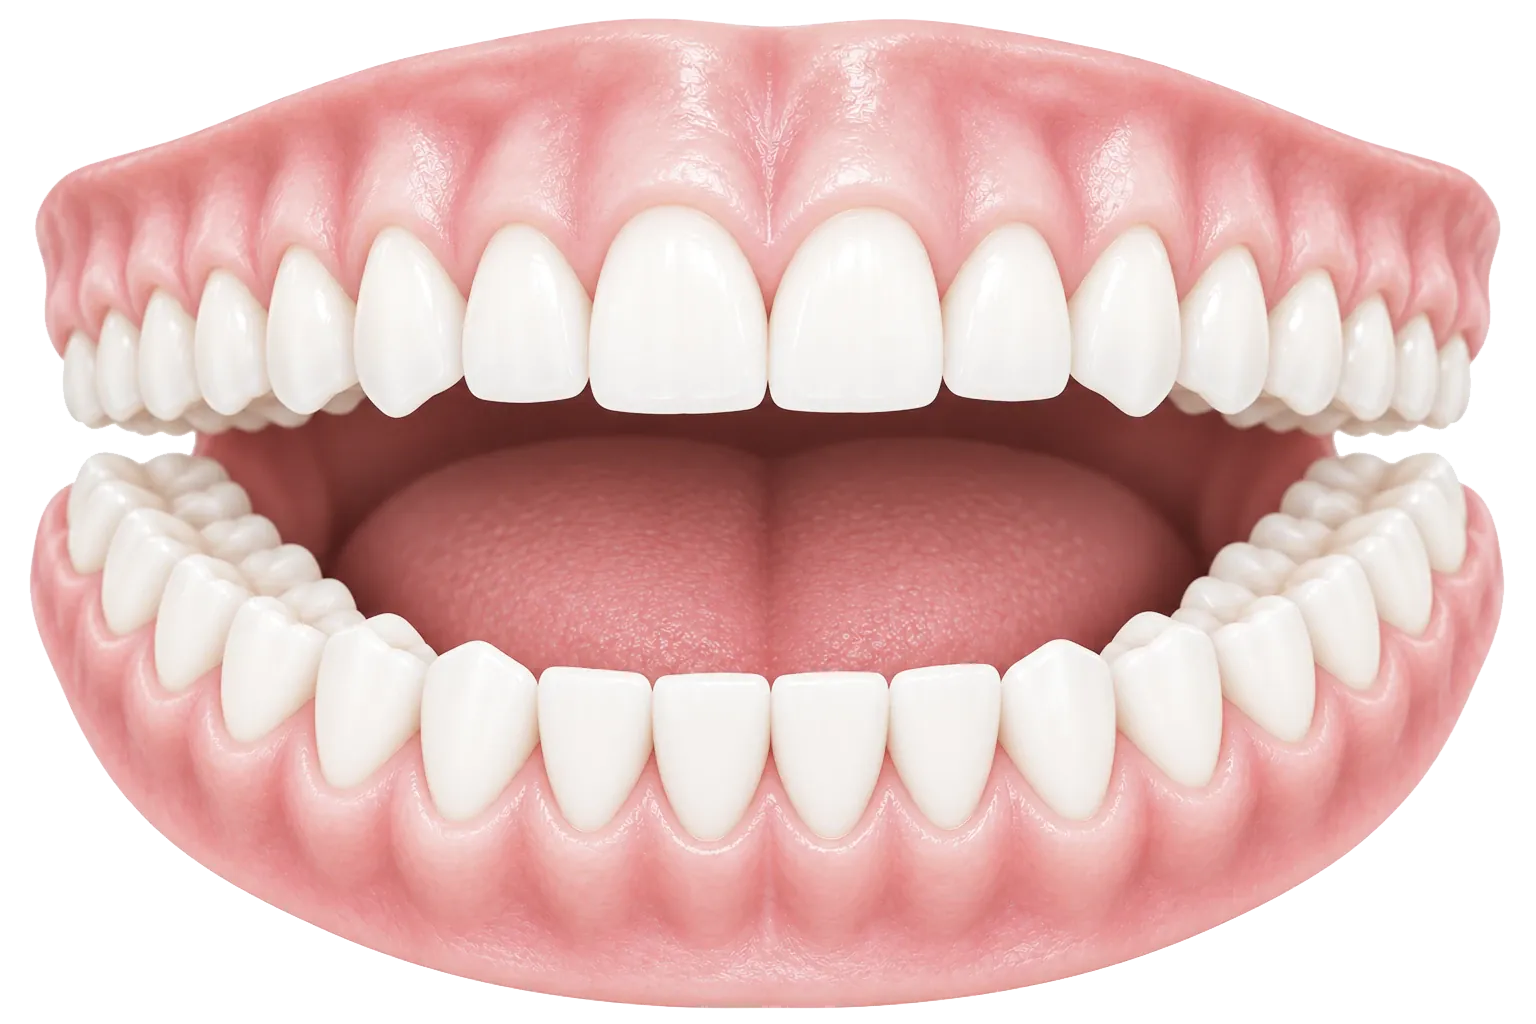
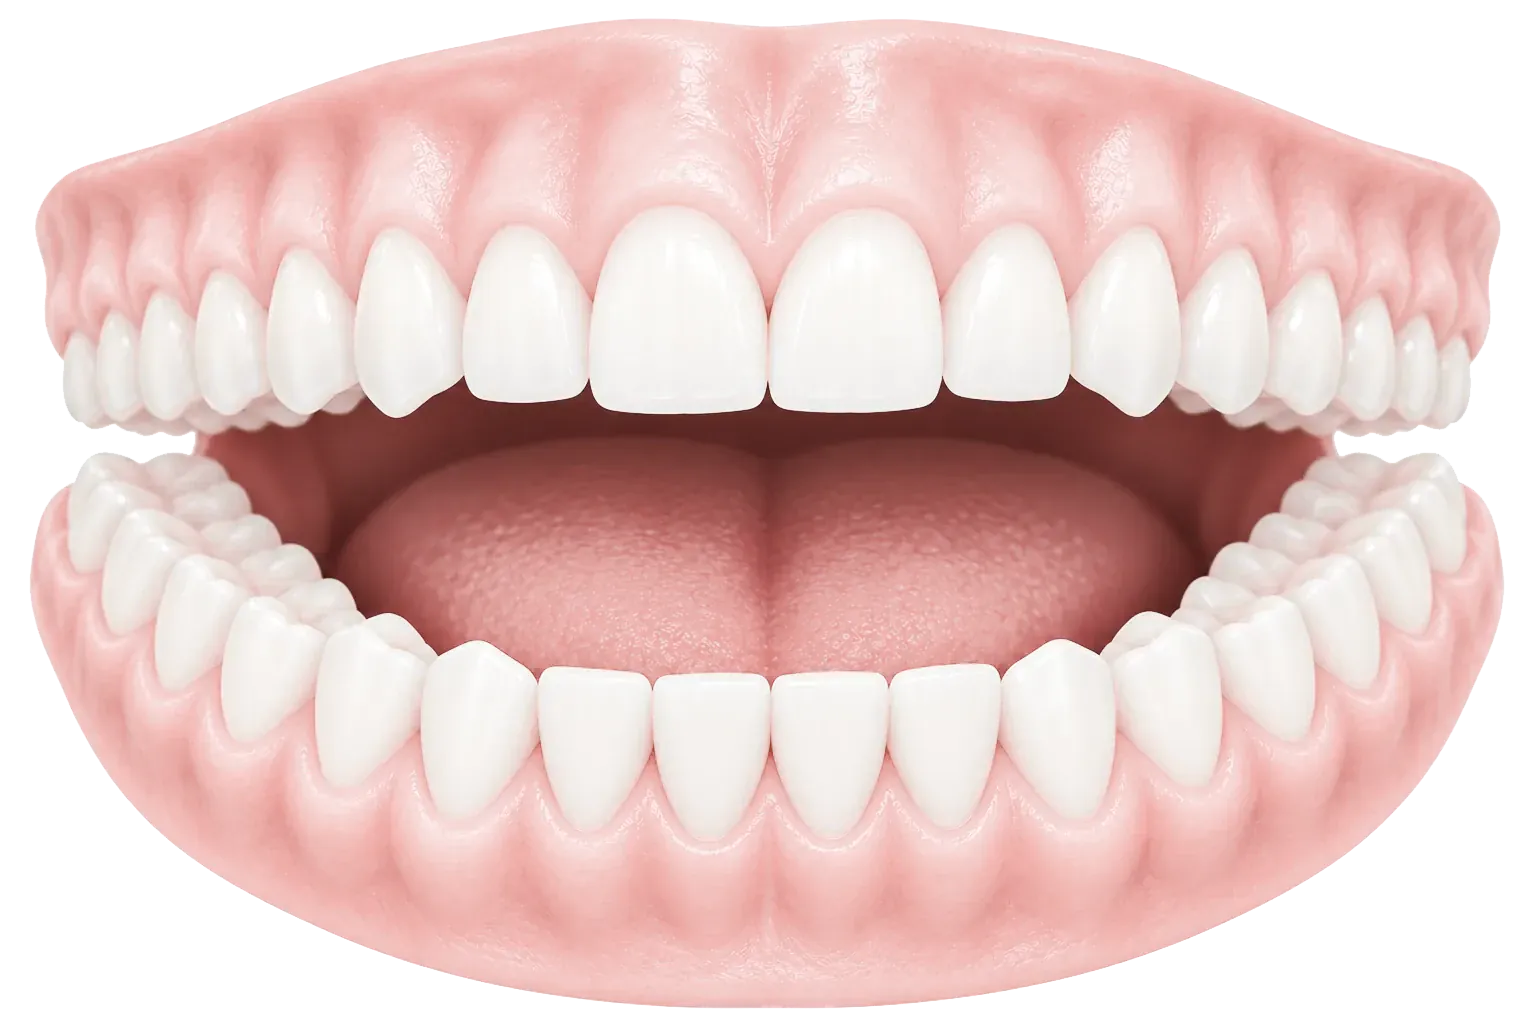
Helper: the jaw picture's gums in the softer, warmer pink of the Finder's smile picture

diff --git a/index.html b/index.html
@@ -475,7 +475,7 @@
               <span class="jaw__side">Левая сторона<svg class="ic" width="14" height="14" stroke-width="2.4" aria-hidden="true"><use href="#i-fwd"/></svg></span>
             </div>
             <div class="jaw__map" id="jaw-map">
-              <img class="jaw__img" src="assets/img/teeth.webp" alt="Схема зубов: верхняя и нижняя челюсть" loading="lazy">
+              <img class="jaw__img" src="assets/img/teeth.webp?v=2" alt="Схема зубов: верхняя и нижняя челюсть" loading="lazy">
             </div>
           </div>
           <span class="jaw__hint" id="tooth-hint" aria-live="polite"></span>

diff --git a/docs/knowledge.md b/docs/knowledge.md
@@ -191,6 +191,11 @@ outside the dialog's rounded corners:
 - Below 900 px the dialog is full-screen, the steps go in a row on top and only the current one keeps its title;
   the disclaimer then moves from the left column into step 3.
 - The tooth map is `assets/img/teeth.webp` (1536 × 1024) with 32 buttons positioned in % of that
+  size. Its gums were recoloured on 2026-11-19 to the softer, warmer pink of the Finder's smile picture (user's
+  request): only pink and light pixels (the teeth are not pink, the tongue and mouth are dark) got lighter (HSL L
+  +28 % of the way to white), a little more saturated and ~5° warmer; same size and alpha, so the outlines still fit;
+  linked as `teeth.webp?v=2` to beat the cache. The original is in git history.
+  Positions are
   size. Each button has `pointer-events: none` and only its SVG outline path takes clicks, so
   neighbouring bounding boxes don't steal clicks.
 - Numbering: data uses 1–32 (upper right → upper left → lower left → lower right, as the doctor
